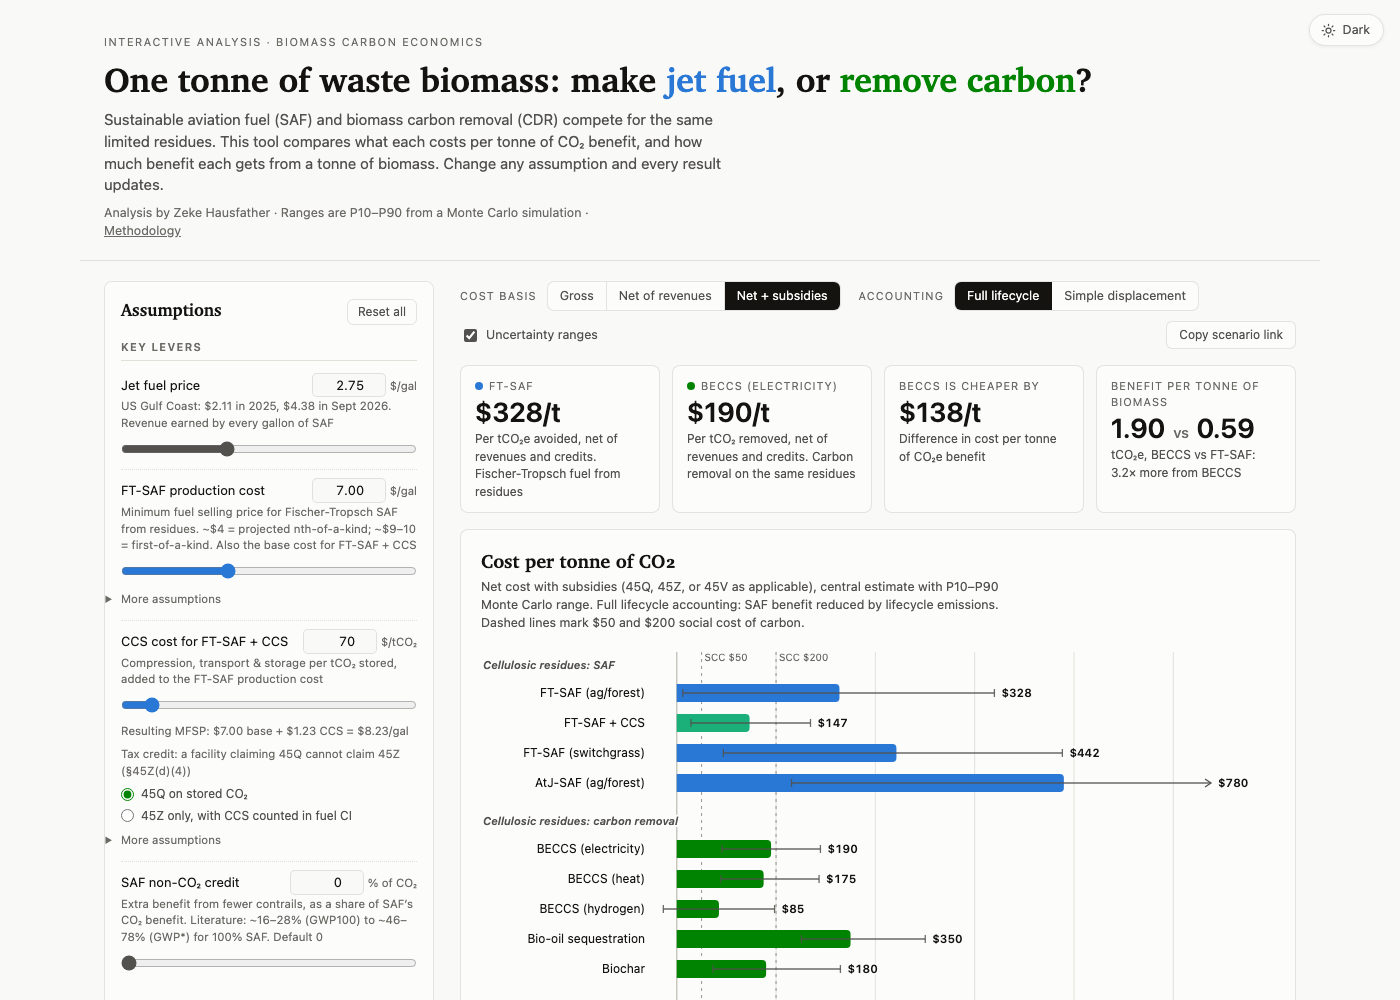
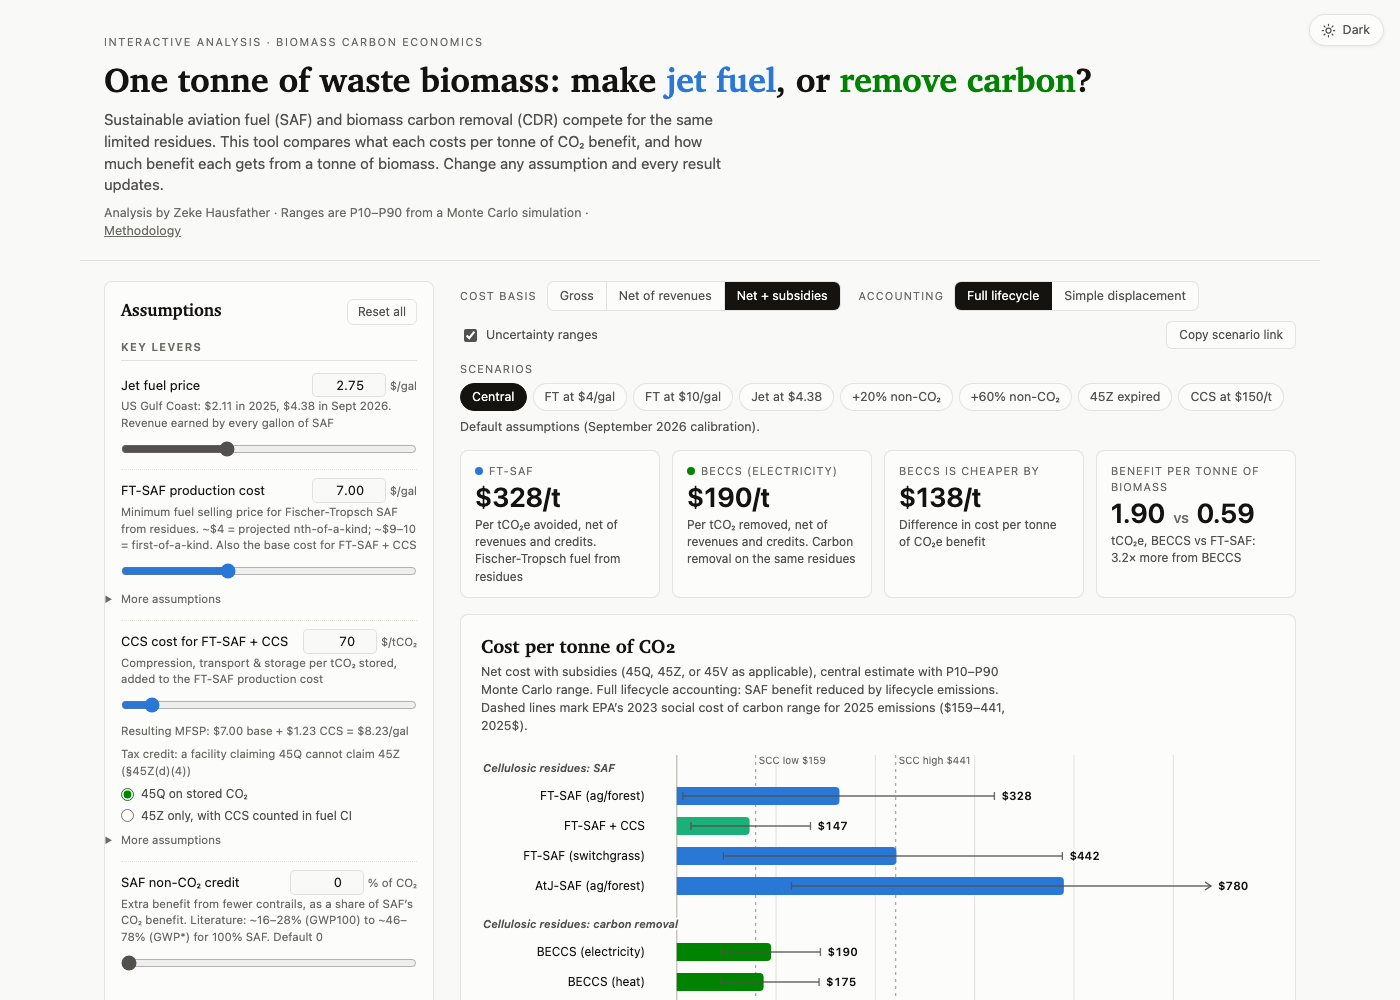
Replace unsourced SCC lines with EPA 2023 range; README for presets/break-even
SCC reference lines: EPA (Nov 2023) SC-CO2, 2025 emissions, $130 (2.5%)
and $360 (1.5%) in 2020$, shown as $159 and $441 in 2025$ via the
GDP deflator. Notes cite Rennert et al. 2022, Moore et al. 2024 and
current federal status (EO 14154, OMB M-25-27).

diff --git a/index.html b/index.html
@@ -629,7 +629,7 @@
       <span class="key"><i style="background:var(--hyb)"></i> SAF + CCS (avoided + stored)</span>
       <span class="key"><i style="background:var(--cdr)"></i> CDR (removed CO₂)</span>
       <span class="key"><i style="background:none;border-bottom:2px solid var(--ink-2);height:0;border-radius:0"></i> P10–P90 range</span>
-      <span class="key"><i style="background:none;border-left:1px dashed var(--ink-3);width:0;border-radius:0"></i> Social cost of carbon $50 / $200</span>
+      <span class="key"><i style="background:none;border-left:1px dashed var(--ink-3);width:0;border-radius:0"></i> Social cost of carbon, EPA 2023: $159 (2.5% discount rate) to $441 (1.5%), 2025$</span>
     </div>
   </section>
 
@@ -695,6 +695,15 @@
        upper bound for SAF: each gallon is credited with the full well-to-wake emissions of the fossil jet it replaces,
        as if producing the SAF emitted nothing, and CDR storage is counted gross. In both modes the lifecycle
        reduction still sets the 45Z credit, which the law ties to the fuel's actual carbon intensity.</p>
+    <h3>Social cost of carbon lines</h3>
+    <p>The dashed reference lines are EPA's 2023 estimates of the social cost of CO₂ for 2025 emissions
+       (<a href="https://cfpub.epa.gov/si/si_public_record_report.cfm?Lab=NCEE&amp;dirEntryID=356357">Report on the Social
+       Cost of Greenhouse Gases</a>, Table A.5.1): $130 at a 2.5% discount rate and $360 at 1.5% (central $212 at 2.0%),
+       in 2020 dollars, shown here as $159 and $441 in 2025 dollars using the GDP price deflator. Independent estimates
+       fall in a similar range: Rennert et al. (2022) find a mean of $185 (5–95%: $44–413, 2020$), and a meta-analysis by
+       Moore et al. (2024) a median of $185. These are not the values US agencies currently apply: Executive Order 14154
+       (January 2025) withdrew the interagency estimates, and OMB memo M-25-27 (May 2025) states that monetized
+       greenhouse gas analysis will be needed in "few to none" cases.</p>
     <h3>Caveats</h3>
     <p>Avoided ≠ removed: SAF benefits are counterfactual and shrink if aviation decarbonizes another way; CDR removals are
        permanent. Non-CO₂ effects are off by default; the <em>SAF non-CO₂ credit</em> slider adds them as a sensitivity.
@@ -872,6 +881,13 @@ function scaledTriple(orig, newMid, clampHi) {
 }
 
 const N_DRAWS = 4000;
+// Social cost of CO2 reference lines: EPA (Nov 2023) SC-GHG report, Table A.5.1, 2025 emissions,
+// $130 (2.5% discount) and $360 (1.5%) in 2020$, converted to 2025$ with the BEA GDP deflator
+// (FRED GDPDEF annual mean 2025 / 2020 = 128.97 / 105.36 = 1.224).
+const SCC_LINES = [
+  { value: 159, label: 'SCC low $159', note: '2.5% discount' },
+  { value: 441, label: 'SCC high $441', note: '1.5% discount' },
+];
 const JET_T = [2.10, 2.75, 4.00]; // $/gal, P10/P50/P90 (US Gulf Coast; 2022-26 mean ~$2.78)
 const H2_KG_PER_DRY_TON = 50;   // Mote PFD: 0.05 t H2 per dry ton of biomass
 const V45_PER_KG_H2 = 3.00;     // 45V max ($/kg, CI < 0.45 kgCO2e/kg + prevailing wage)
@@ -1387,7 +1403,7 @@ function renderCostChart(results) {
     maxMid = Math.max(maxMid, r.mid[metric]);
   }
   hi = Math.min(hi, Math.max(maxMid * 1.3, 400));
-  hi = Math.max(hi, 220); // keep SCC lines visible
+  hi = Math.max(hi, SCC_LINES[SCC_LINES.length - 1].value * 1.04); // keep SCC lines visible
   const span = hi - lo || 1;
   lo -= span * 0.02; hi += span * 0.06;
   const x = v => ml + (Math.min(v, hi) - lo) / (hi - lo) * (W - ml - mr);
@@ -1399,10 +1415,10 @@ function renderCostChart(results) {
       .textContent = fmt$(Math.abs(tk) < 1e-9 ? 0 : tk);
   }
   // SCC reference lines
-  for (const scc of [50, 200]) {
-    if (scc > lo && scc < hi) {
-      el('line', { x1: x(scc), x2: x(scc), y1: mt, y2: H - mb, stroke: 'var(--ink-3)', 'stroke-width': 1, 'stroke-dasharray': '3,4', opacity: 0.7 }, svg);
-      if (!narrow) el('text', { x: x(scc) + 3, y: mt + 9, 'font-size': 10, fill: 'var(--ink-3)' }, svg).textContent = 'SCC $' + scc;
+  for (const s of SCC_LINES) {
+    if (s.value > lo && s.value < hi) {
+      el('line', { x1: x(s.value), x2: x(s.value), y1: mt, y2: H - mb, stroke: 'var(--ink-3)', 'stroke-width': 1, 'stroke-dasharray': '3,4', opacity: 0.7 }, svg);
+      if (!narrow) el('text', { x: x(s.value) + 3, y: mt + 9, 'font-size': 10, fill: 'var(--ink-3)', 'paint-order': 'stroke', stroke: 'var(--surface)', 'stroke-width': 3 }, svg).textContent = s.label;
     }
   }
   // zero baseline
@@ -1729,7 +1745,7 @@ function update() {
       (state.inputs.useLca
         ? 'Full lifecycle accounting: SAF benefit reduced by lifecycle emissions.'
         : 'Simple displacement accounting (upper bound for SAF): each gallon credited with the full well-to-wake emissions of fossil jet.') +
-      ' Dashed lines mark $50 and $200 social cost of carbon.';
+      ' Dashed lines mark EPA’s 2023 social cost of carbon range for 2025 emissions ($159–441, 2025$).';
     document.getElementById('carbonSub').textContent =
       'Where the 1.83 tCO₂e in each dry tonne (1,000 kg) of biomass ends up, plus avoided fossil emissions beyond it. ' +
       (state.inputs.useLca

diff --git a/METHODOLOGY.md b/METHODOLOGY.md
@@ -377,6 +377,15 @@ See the SAF pathway table above (CORSIA 8th edition defaults, November 2025). In
 
 ---
 
+## Social cost of carbon reference lines
+
+The explorer's cost chart shows two reference lines from EPA's *Report on the Social Cost of Greenhouse Gases* (November 2023), Table A.5.1, for 2025 emissions: **$130/tCO2 at a 2.5% near-term discount rate and $360 at 1.5%** (central $212 at 2.0%), in 2020 dollars. They are converted to 2025 dollars with the BEA GDP implicit price deflator (FRED `GDPDEF`, 2025 annual mean 128.97 / 2020 annual mean 105.36 = 1.224), giving **$159 and $441**. Context:
+- Rennert et al. (2022, *Nature*) preferred mean $185/tCO2 (5–95%: $44–413; 2020$, 2% discount). Their GIVE model is one of EPA's three damage modules, so it is not fully independent of EPA's values.
+- Moore et al. (2024, NBER WP 32544 / *PNAS*): synthetic distribution median $185, mean $284 (5–95%: $32–874), 2020 pulse year.
+- The 2021 IWG interim value was $51 (3% discount, 2020 emissions, 2020$).
+- Current US federal status: Executive Order 14154 (Jan 20, 2025) disbanded the IWG and withdrew its estimates; OMB memo M-25-27 (May 5, 2025) states "it is no longer Federal government policy to maintain a uniform estimate of the monetized impacts of greenhouse gas emissions" and that such analysis will be needed in "few to none" cases, reverting to Circular A-4 (2003) where used.
+- Replaces the earlier unsourced "$50 / $200" lines (changed 2026-09-28).
+
 ## Summary Results (Central Estimates, September 2026 defaults)
 
 Generated from the explorer defaults. P10–P90 are Monte Carlo percentiles of the net + subsidy cost. "tCO2 benefit/dry ton" is per ton of oil for the lipid pathways and per ton of MSW or wet waste for those pathways.

diff --git a/README.md b/README.md
@@ -29,6 +29,13 @@ assumption adjustable.
   credit for CDR) vs simple displacement (an upper bound for SAF: each gallon credited with the
   full well-to-wake emissions of fossil jet). The lifecycle reduction sets the 45Z credit in both modes.
 
+**Scenario presets** (central, FT-SAF at $4 or $10/gal, jet fuel at $4.38, +20% or +60% non-CO₂ credit,
+45Z expired, CCS at $150/t) load in one click, each with a short link such as `#preset=ft4`. A
+**break-even panel** shows, live, the jet fuel price, FT-SAF production cost and non-CO₂ credit at which
+FT-SAF would cost the same per tonne as BECCS (electricity), holding everything else at the current settings.
+Cost chart reference lines show EPA's 2023 social cost of carbon range for 2025 emissions ($159–441/tCO₂,
+2025 dollars).
+
 Results update live: benchmark tiles (FT-SAF vs BECCS-electricity, the most common pathways
 today), a $/tCO₂ comparison chart with P10–P90 uncertainty ranges, a carbon-fate-per-dry-ton
 chart, and a full data table. **Copy scenario link** encodes all assumptions in the URL so a
